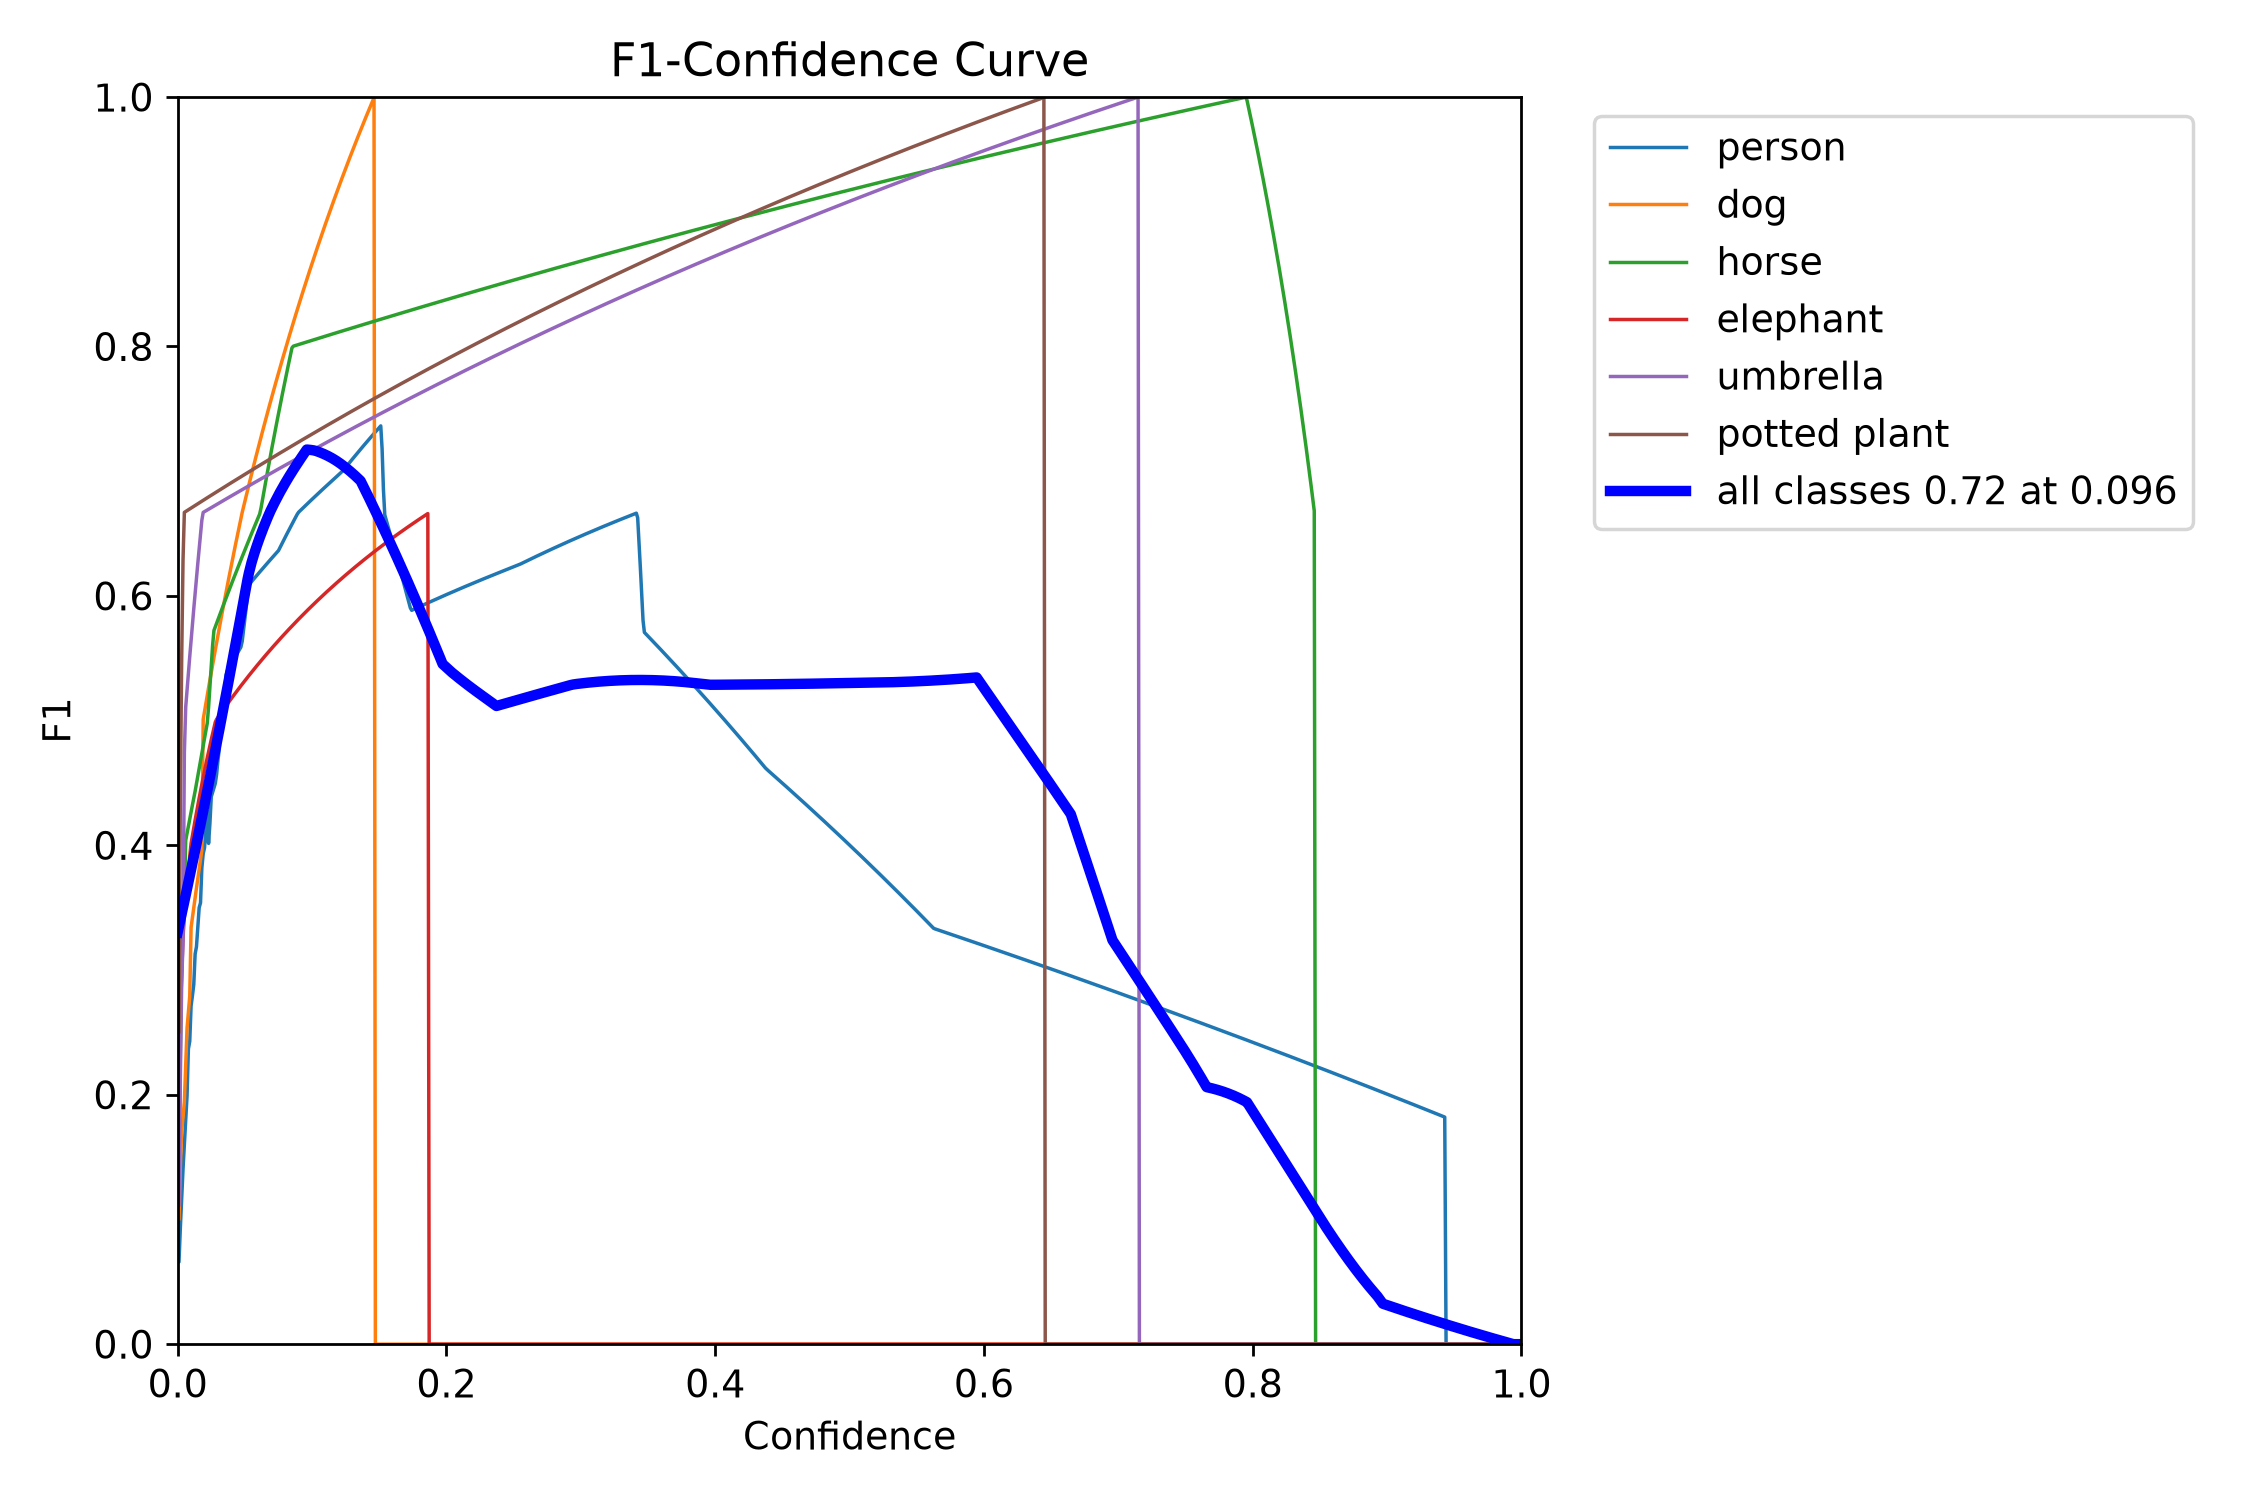
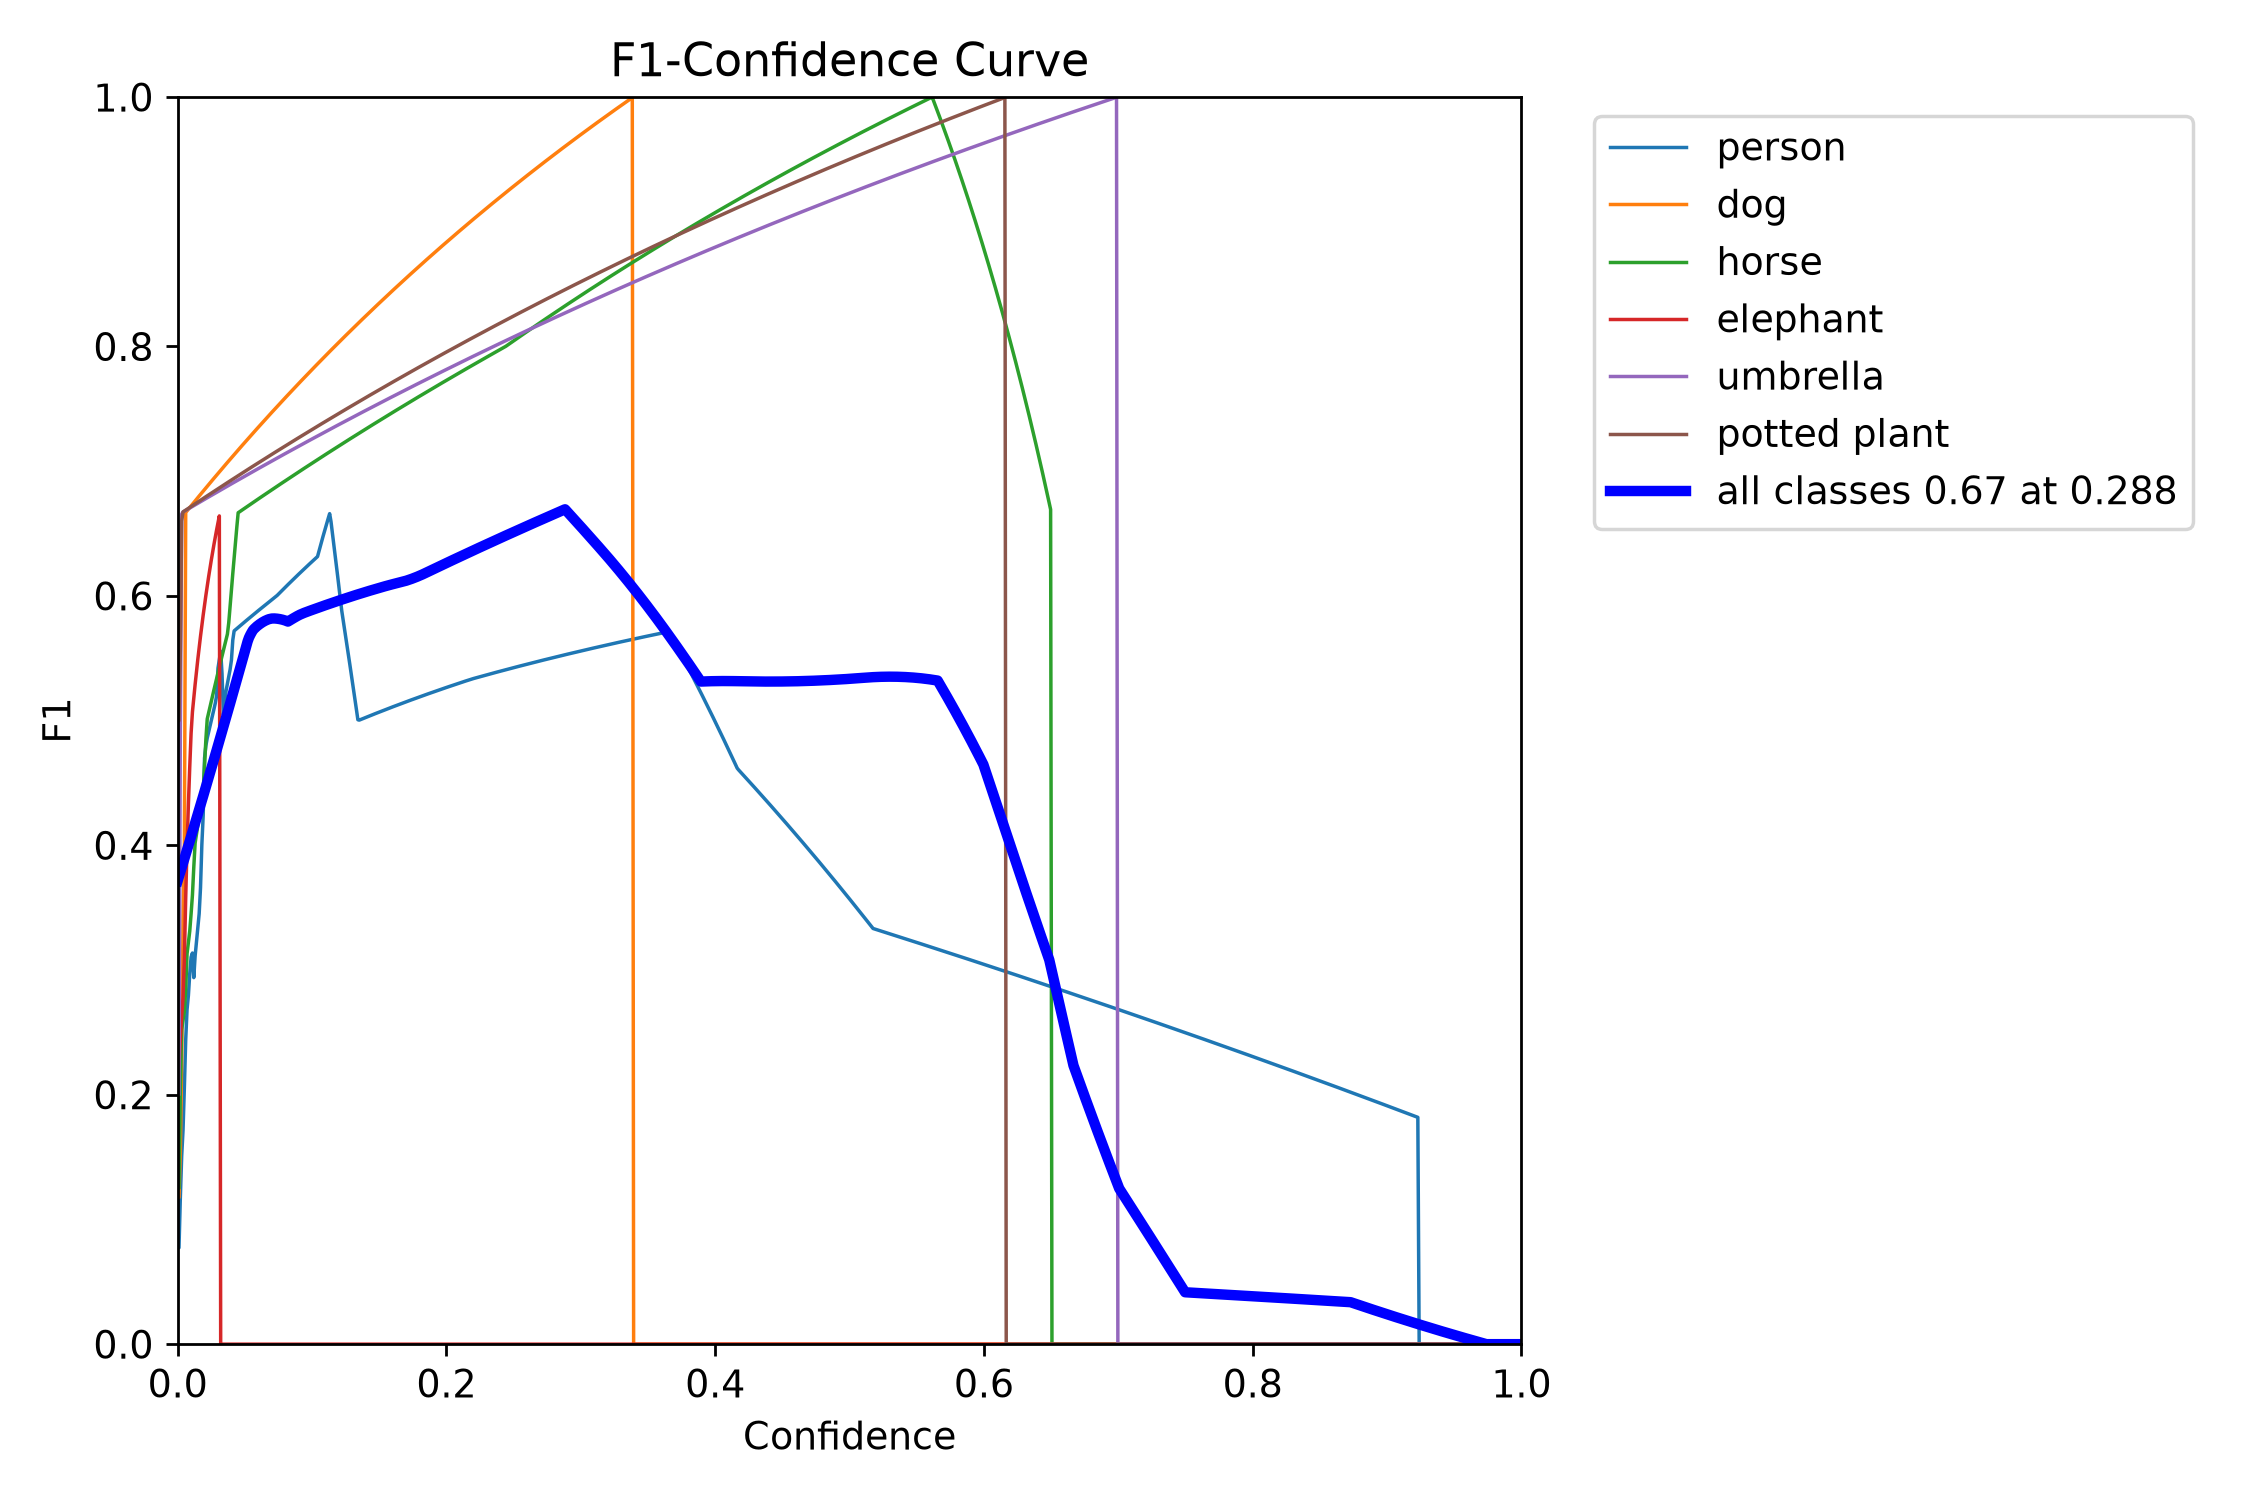
Train Path B until early-stop convergence (patience=30, best ~epoch 12)

diff --git a/scripts/02_finetune_few_epochs.py b/scripts/02_finetune_few_epochs.py
@@ -1,10 +1,11 @@
 # -*- coding: utf-8 -*-
 """
-AT3② Path B: small-data + few-epoch fine-tune of YOLOv10n.
-Protocol: coco8 train, epochs=5, imgsz=640, then val + inference.
+AT3② Path B: small-data fine-tune of YOLOv10n until validation converges.
+Protocol: coco8, imgsz=640, max_epochs high + early-stopping patience.
 """
 from __future__ import annotations
 
+import csv
 import json
 import os
 import time
@@ -24,7 +25,8 @@ FIG.mkdir(parents=True, exist_ok=True)
 MODEL_NAME = "yolov10n.pt"
 DATA = "coco8.yaml"
 IMGSZ = 640
-EPOCHS = 5
+MAX_EPOCHS = 200  # upper bound; training stops earlier when converged
+PATIENCE = 30  # stop if val fitness has no improvement for this many epochs
 BATCH = 4
 DEVICE = "cpu"
 
@@ -40,21 +42,61 @@ def find_coco8_images() -> Path | None:
     return None
 
 
+def read_train_curve(results_csv: Path) -> dict:
+    if not results_csv.exists():
+        return {"epochs_ran": None, "best_epoch": None, "best_map50_95": None}
+    rows = list(csv.DictReader(results_csv.open(encoding="utf-8")))
+    if not rows:
+        return {"epochs_ran": 0, "best_epoch": None, "best_map50_95": None}
+    # Ultralytics column names vary slightly by version
+    map_key = next(
+        (k for k in rows[0].keys() if "mAP50-95" in k or k.strip().endswith("mAP50-95(B)")),
+        None,
+    )
+    epoch_key = next((k for k in rows[0].keys() if k.strip().lower() == "epoch"), list(rows[0].keys())[0])
+    best_i = 0
+    best_v = float("-inf")
+    for i, row in enumerate(rows):
+        if map_key is None:
+            break
+        try:
+            v = float(row[map_key])
+        except (TypeError, ValueError):
+            continue
+        if v >= best_v:
+            best_v = v
+            best_i = i
+    best_epoch = None
+    try:
+        best_epoch = int(float(rows[best_i][epoch_key]))
+    except Exception:
+        best_epoch = best_i + 1
+    return {
+        "epochs_ran": len(rows),
+        "best_epoch": best_epoch,
+        "best_map50_95": None if map_key is None or best_v == float("-inf") else best_v,
+        "map_column": map_key,
+    }
+
+
 def main() -> None:
-    print(f"[B] Fine-tune {MODEL_NAME} on {DATA} for {EPOCHS} epochs")
+    print(
+        f"[B] Fine-tune {MODEL_NAME} on {DATA} until convergence "
+        f"(max_epochs={MAX_EPOCHS}, patience={PATIENCE})"
+    )
     model = YOLO(MODEL_NAME)
 
     t0 = time.perf_counter()
     train_results = model.train(
         data=DATA,
-        epochs=EPOCHS,
+        epochs=MAX_EPOCHS,
         imgsz=IMGSZ,
         batch=BATCH,
         device=DEVICE,
         project=str(OUT),
         name="train",
         exist_ok=True,
-        patience=EPOCHS,
+        patience=PATIENCE,
         pretrained=True,
         plots=True,
         verbose=True,
@@ -64,7 +106,9 @@ def main() -> None:
     best = OUT / "train" / "weights" / "best.pt"
     last = OUT / "train" / "weights" / "last.pt"
     ckpt = best if best.exists() else last
+    curve = read_train_curve(OUT / "train" / "results.csv")
     print(f"[B] Load fine-tuned checkpoint: {ckpt}")
+    print(f"[B] Convergence: epochs_ran={curve['epochs_ran']}, best_epoch={curve['best_epoch']}")
     ft = YOLO(str(ckpt))
 
     t1 = time.perf_counter()
@@ -95,12 +139,16 @@ def main() -> None:
 
     box = metrics.box
     summary = {
-        "path": "B_finetune_few_epochs",
+        "path": "B_finetune_until_convergence",
         "base_model": MODEL_NAME,
         "finetuned_checkpoint": str(ckpt.relative_to(ROOT)) if ckpt.exists() else None,
         "data": DATA,
         "imgsz": IMGSZ,
-        "epochs": EPOCHS,
+        "max_epochs": MAX_EPOCHS,
+        "patience": PATIENCE,
+        "epochs_ran": curve["epochs_ran"],
+        "best_epoch": curve["best_epoch"],
+        "best_map50_95_during_train": curve["best_map50_95"],
         "batch": BATCH,
         "device": DEVICE,
         "map50_95": float(box.map),
@@ -115,7 +163,10 @@ def main() -> None:
             "inference": float(metrics.speed.get("inference", 0.0)),
             "postprocess": float(metrics.speed.get("postprocess", 0.0)),
         },
-        "note": "Simplified reproduction: tiny coco8 + 5 epochs. Not full COCO training.",
+        "note": (
+            "Train until early-stopping: stop when val fitness does not improve "
+            f"for {PATIENCE} epochs (max {MAX_EPOCHS}). Tiny coco8 protocol, not full COCO."
+        ),
         "train_save_dir": str(getattr(train_results, "save_dir", OUT / "train")),
     }
     out_json = OUT / "metrics.json"

diff --git a/results/comparison.md b/results/comparison.md
@@ -6,7 +6,7 @@
 |---|---|---:|---|
 | Paper YOLOv10-N | COCO val2017 full | 38.5% | Official paper number |
 | A Official `.pt` (ours) | coco8.yaml | 67.92% | No train; device=cpu |
-| B Few-epoch fine-tune (ours) | coco8.yaml | 59.47% | epochs=5; device=cpu |
+| B Few-epoch fine-tune (ours) | coco8.yaml | 64.03% | epochs=None; device=cpu |
 
 ## Interpretation
 
